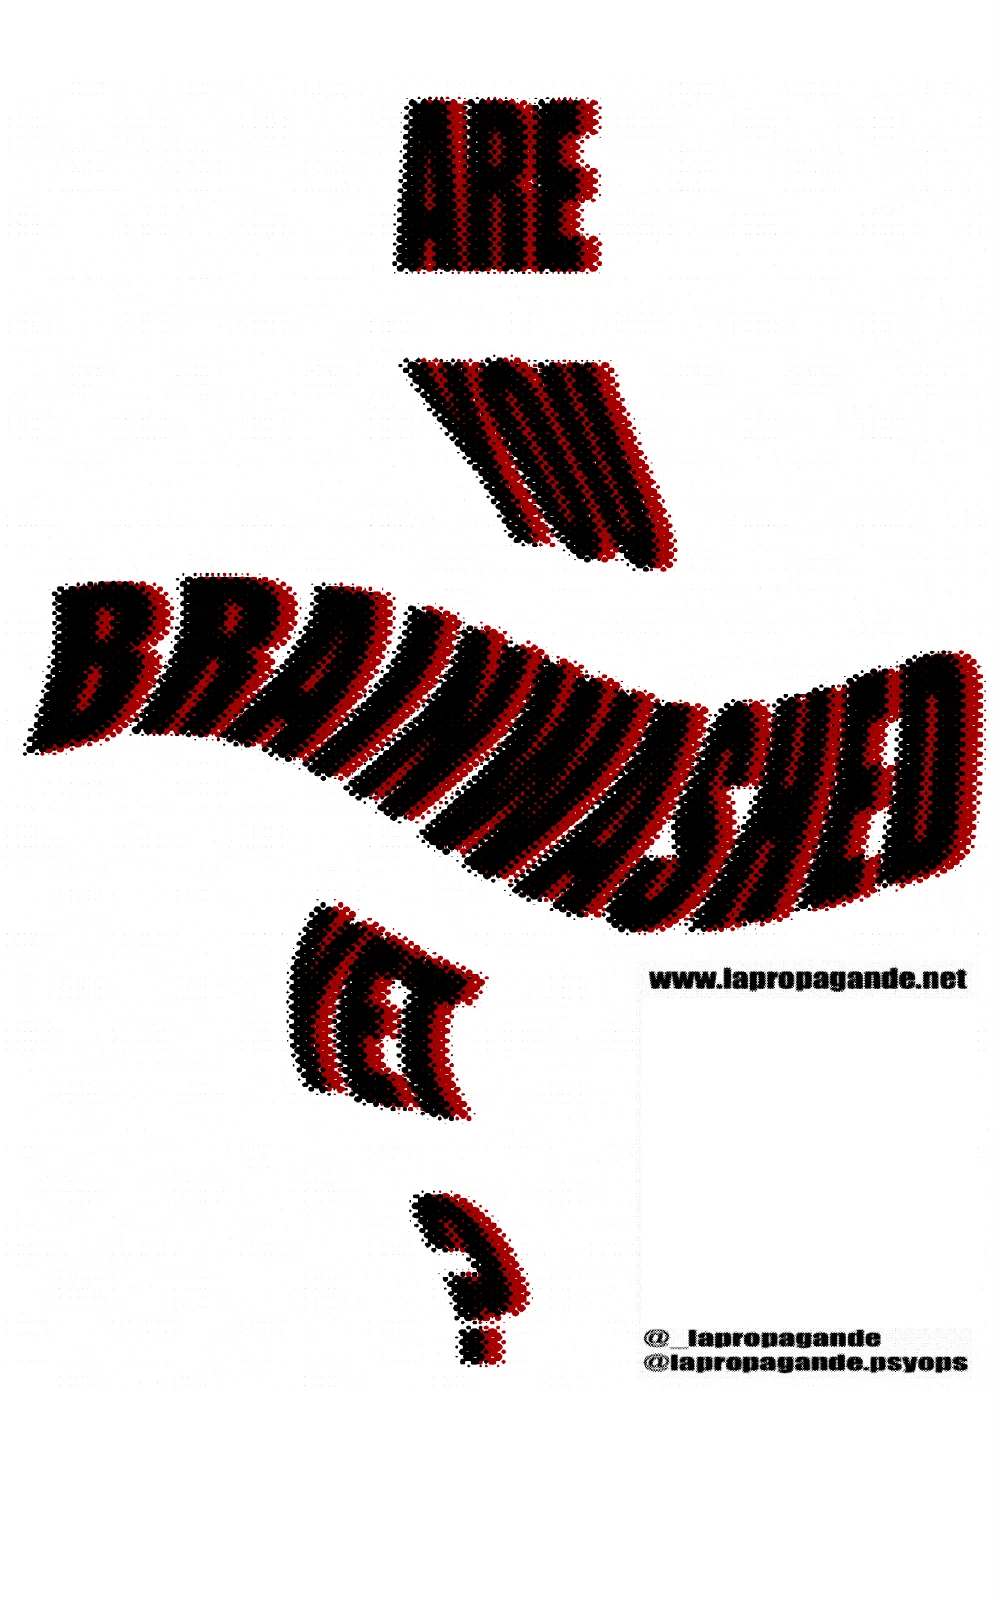
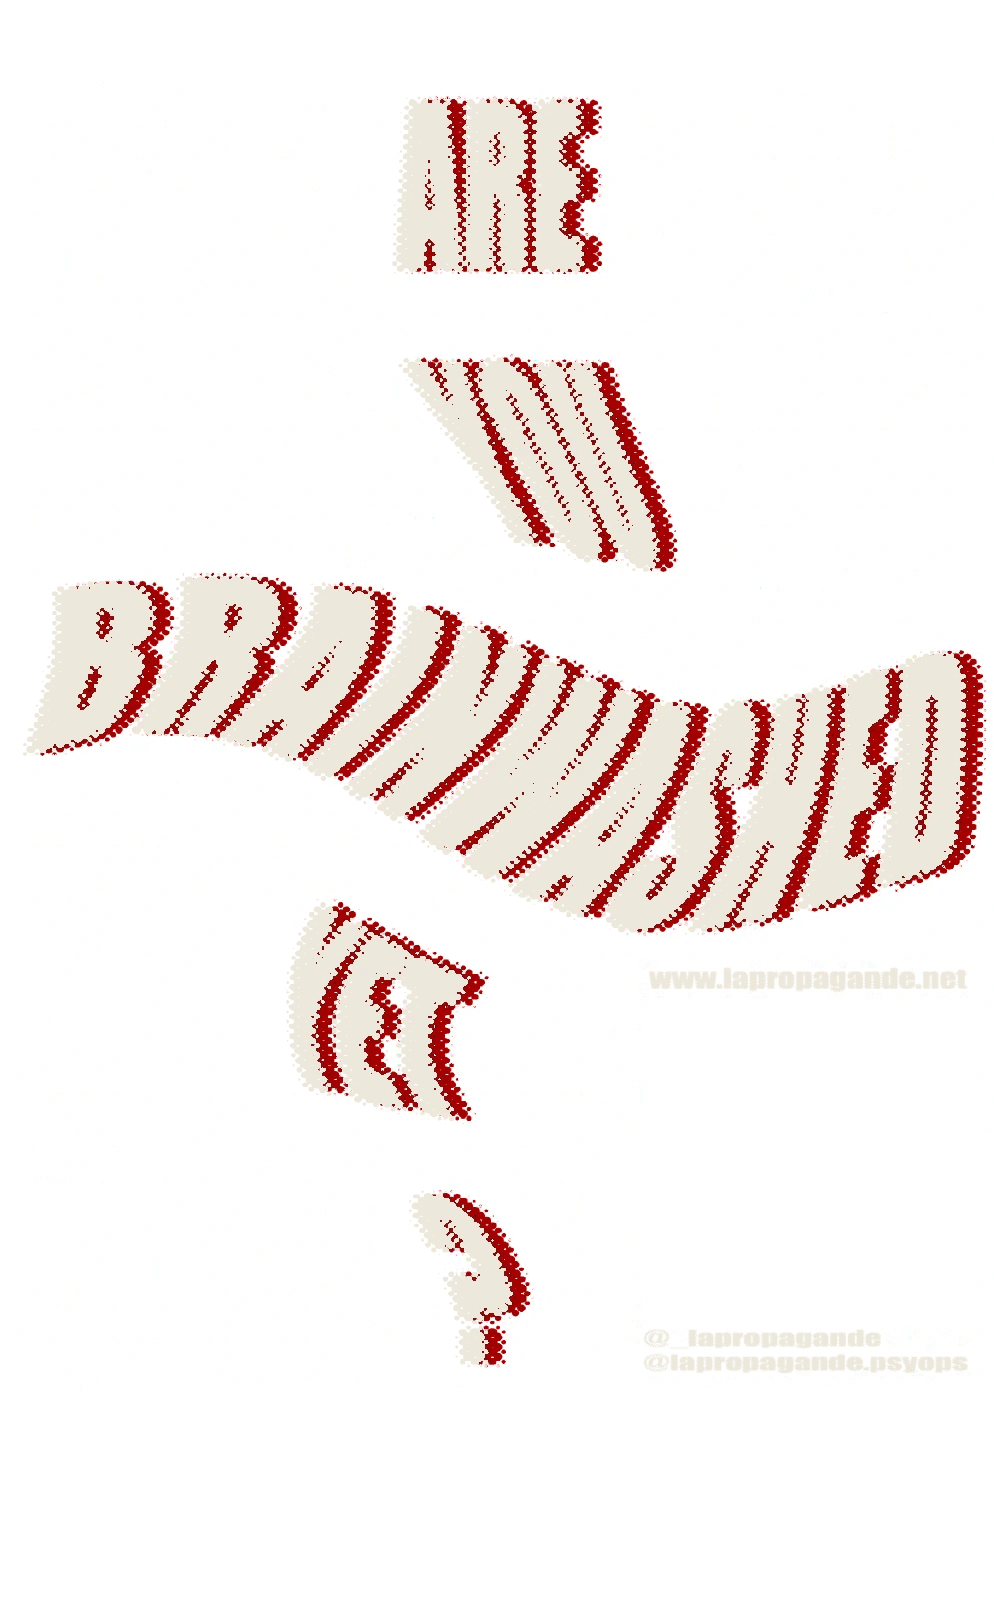
feat: client revision round 2 — wordmark, footer copy, map links, VHS mobile framing; remove lab + unused assets

diff --git a/app/locations/page.tsx b/app/locations/page.tsx
@@ -1,12 +1,21 @@
 import type { Metadata } from 'next';
-import Image from 'next/image';
 import { getLocationEntries } from '@/lib/queries/content';
+import { locationMapUrl } from '@/lib/site';
 import { MetaList, PageHeader, Panel, PanelTitleBar, StatusChip } from '@/components/system/Primitives';
 
 export const metadata: Metadata = {
   title: 'Locations',
   description: 'La Propagande showrooms in Badaro and Ashrafieh, Fearlove Vintage Shop in Beirut, and online platforms across Lebanon and Oman.',
 };
+
+function MapLink({ entry }: { entry: { title: string; address: string } }) {
+  const href = locationMapUrl(entry) ?? `https://www.google.com/maps/search/?api=1&query=${encodeURIComponent(entry.address.replace(/\n/g, ', '))}`;
+  return (
+    <a href={href} target="_blank" rel="noopener noreferrer" className="lp-btn lp-btn--sm">
+      OPEN IN MAPS <span className="lp-btn__arrow">&gt;</span>
+    </a>
+  );
+}
 
 export default async function LocationsPage() {
   const entries = await getLocationEntries();
@@ -25,22 +34,10 @@ export default async function LocationsPage() {
           {showrooms.map((entry, index) => (
             <Panel key={entry.id} ticks reveal={index} className="overflow-hidden">
               <PanelTitleBar title={entry.title} meta="BY APPOINTMENT" />
-              <div className="grid gap-4 p-4 sm:grid-cols-[120px_1fr]">
-                <div className="lp-media relative aspect-square">
-                  <Image src={index % 2 === 0 ? '/images/brand/photo-showroom-rack.webp' : '/images/brand/photo-popup-rack.webp'} alt="" fill sizes="120px" className="object-cover" />
-                </div>
-                <div className="space-y-3">
-                  <p className="lp-body m-0 whitespace-pre-line text-[var(--lp-color-text-strong)]">{entry.address}</p>
-                  {entry.note ? <StatusChip label={entry.note} tone="accent" /> : null}
-                  <a
-                    href={`https://www.google.com/maps/search/?api=1&query=${encodeURIComponent(entry.address.replace(/\n/g, ', '))}`}
-                    target="_blank"
-                    rel="noopener noreferrer"
-                    className="lp-btn lp-btn--sm"
-                  >
-                    OPEN IN MAPS <span className="lp-btn__arrow">&gt;</span>
-                  </a>
-                </div>
+              <div className="space-y-3 p-4">
+                <p className="lp-body m-0 whitespace-pre-line text-[var(--lp-color-text-strong)]">{entry.address}</p>
+                {entry.note ? <StatusChip label={entry.note} tone="accent" /> : null}
+                <MapLink entry={entry} />
               </div>
             </Panel>
           ))}
@@ -62,6 +59,7 @@ export default async function LocationsPage() {
                     ...(entry.note ? [{ label: 'Note', value: entry.note }] : []),
                   ]}
                 />
+                <MapLink entry={entry} />
               </div>
             </Panel>
           ))}

diff --git a/app/contact/page.tsx b/app/contact/page.tsx
@@ -2,19 +2,12 @@ import type { Metadata } from 'next';
 import Image from 'next/image';
 import Link from 'next/link';
 import SocialLinks from '@/components/contact/SocialLinks';
-import { PageHeader, Panel, PanelTitleBar, StatusChip } from '@/components/system/Primitives';
+import { PageHeader, Panel, PanelTitleBar } from '@/components/system/Primitives';
 
 export const metadata: Metadata = {
   title: 'Contact us',
   description: 'Reach La Propagande on WhatsApp, Instagram or TikTok for drops, custom orders, events and showroom access in Paris and Beirut.',
 };
-
-const CHANNELS = [
-  { label: 'Drops & orders', body: 'Sizing, restocks, shipping between Paris and Beirut.' },
-  { label: 'Custom jackets', body: 'Start a build or follow up on an open request.' },
-  { label: 'Events', body: 'Pop-ups, raves, collaborations, press.' },
-  { label: 'Showrooms', body: 'Appointments in Badaro and Ashrafieh.' },
-];
 
 export default function ContactPage() {
   return (
@@ -30,27 +23,12 @@ export default function ContactPage() {
               WhatsApp is the fastest line. Instagram and TikTok are open for everything else. We reply directly — no ticket system, no bots.
             </p>
             <SocialLinks />
-            <ul className="m-0 grid list-none gap-3 p-0 sm:grid-cols-2">
-              {CHANNELS.map((channel) => (
-                <li key={channel.label} className="border-t border-[var(--lp-color-border-subtle)] pt-3">
-                  <p className="lp-label m-0 text-[var(--lp-color-primary-400)]">{channel.label}</p>
-                  <p className="lp-body lp-body-sm m-0 mt-1 text-[var(--lp-color-text-muted)]">{channel.body}</p>
-                </li>
-              ))}
-            </ul>
           </div>
         </Panel>
 
         <Link href="/locations" className="group block lp-focus-ring">
           <Panel interactive reveal={1} className="h-full overflow-hidden">
             <PanelTitleBar title="ACCESS POINTS" meta="SHOWROOMS / SELLING POINTS" />
-            <div className="lp-media lp-media--zoom relative aspect-[16/10] border-0 border-b border-[var(--lp-color-border-subtle)]">
-              <Image src="/images/brand/photo-showroom-rack.webp" alt="La Propagande showroom rack" fill sizes="(max-width: 1024px) 100vw, 45vw" className="object-cover" />
-              <div className="absolute left-3 top-3 flex gap-2">
-                <StatusChip label="BADARO" dot tone="success" />
-                <StatusChip label="ASHRAFIEH" dot tone="success" />
-              </div>
-            </div>
             <div className="flex items-end justify-between gap-4 p-4">
               <div>
                 <p className="lp-title lp-title-lg m-0 text-[var(--lp-color-text-strong)] transition-colors group-hover:text-[var(--lp-color-primary-300)]">Physical locations</p>

diff --git a/app/about/page.tsx b/app/about/page.tsx
@@ -8,26 +8,12 @@ export const metadata: Metadata = {
   description: 'La Propagande — born from revolt and war, based between Paris and Beirut. Background, vision, mission and purpose.',
 };
 
-const ART = ['/images/brand/slogan-old-world.webp', '/images/brand/slogan-new-world.webp', '/images/brand/slogan-not-televised.webp', '/images/brand/slogan-lied-to.webp'];
-
 export default async function AboutPage() {
-  const { intro, heading, sections } = splitAboutContent(await getAboutSections());
+  const { sections } = splitAboutContent(await getAboutSections());
 
   return (
     <div className="lp-shell lp-page-pad space-y-4">
       <PageHeader module="ABOUT.sys" title="Background" strip="PUBLIC BRIEF · PARIS ↔ BEIRUT · BORN FROM REVOLT AND WAR" />
-
-      <Panel ticks reveal={0} className="overflow-hidden">
-        <div className="grid md:grid-cols-[minmax(0,1fr)_minmax(0,1fr)]">
-          <div className="lp-media relative aspect-[4/3] border-0 border-b border-[var(--lp-color-border-subtle)] md:aspect-auto md:border-b-0 md:border-r">
-            <Image src="/images/brand/photo-street-sign.webp" alt="La Propagande sigil on a street sign in Beirut" fill sizes="(max-width: 768px) 100vw, 50vw" className="object-cover" priority />
-          </div>
-          <div className="flex flex-col justify-center gap-4 p-4 md:p-8">
-            <p className="lp-display lp-display-lg m-0 text-[var(--lp-color-text-strong)]">{heading ?? 'The old world is dying and the new struggles to be born.'}</p>
-            <p className="lp-body m-0 text-[var(--lp-color-text-muted)]">{intro ?? 'A label, an archive and a network of nodes. Clothes as leaflets; events as broadcasts; the shop as a terminal into a hidden cultural record.'}</p>
-          </div>
-        </div>
-      </Panel>
 
       <Panel reveal={1} className="overflow-hidden">
         <Image
@@ -48,14 +34,6 @@ export default async function AboutPage() {
               <p className="lp-body m-0 whitespace-pre-line">{section.body}</p>
             </div>
           </Panel>
-        ))}
-      </div>
-
-      <div className="grid grid-cols-2 gap-2 md:grid-cols-4">
-        {ART.map((src, index) => (
-          <div key={src} className="lp-media lp-media--zoom lp-reveal relative aspect-[1200/848]" style={{ ['--i' as string]: index + 4 }}>
-            <Image src={src} alt="" fill sizes="(max-width: 768px) 50vw, 25vw" className="object-cover" />
-          </div>
         ))}
       </div>
     </div>

diff --git a/components/home/ManifestoBroadcast.tsx b/components/home/ManifestoBroadcast.tsx
@@ -6,7 +6,7 @@ import { useEffect, useRef } from 'react';
 // signal dies, then the manifesto plays over the brand's own photos as red-bar captions.
 // Canvas-drawn; the full text is mirrored in an sr-only list.
 
-const SPEED = 0.6; // global pacing multiplier — lower is faster
+const SPEED = 0.8; // global pacing multiplier — lower is faster
 
 type Shot = {
   type: 'arc' | 'card' | 'photo' | 'flash' | 'static' | 'end';
@@ -122,6 +122,12 @@ export default function ManifestoBroadcast() {
       const r = Math.max(W / img.width, H / img.height) * zoom, w = img.width * r, h = img.height * r;
       cx.drawImage(img, (W - w) * ox, (H - h) * oy, w, h);
     };
+    // portrait screens: show landscape cards whole instead of cropping them to a slice
+    const fit = (img: HTMLImageElement, zoom = 1) => {
+      if (W >= H) return cover(img, zoom);
+      const r = Math.min(W / img.width, H / img.height) * zoom, w = img.width * r, h = img.height * r;
+      cx.drawImage(img, (W - w) / 2, (H - h) / 2, w, h);
+    };
     const noise = (a: number, mode: GlobalCompositeOperation = 'overlay') => {
       cx.save();
       cx.globalAlpha = a; cx.globalCompositeOperation = mode;
@@ -189,9 +195,9 @@ export default function ManifestoBroadcast() {
       } else if (type === 'flash' && ready) {
         cx.filter = 'contrast(1.25) saturate(1.2) brightness(.7)'; cover(img!, z * (1.06 + p * 0.06), ox, oy); cx.filter = 'none'; noise(0.18);
       } else if (type === 'card' && ready) {
-        cover(img!, 1 + 0.035 * Math.max(0, 1 - el / 160)); noise(0.12);
+        fit(img!, 1 + 0.035 * Math.max(0, 1 - el / 160)); noise(0.12);
       } else if (type === 'end' && ready) {
-        cover(img!, 1); noise(0.12);
+        fit(img!, 1); noise(0.12);
         cx.font = `${Math.min(W * 0.016, 20)}px "Retro Computer"`; cx.fillStyle = '#120302'; cx.textAlign = 'center';
         cx.globalAlpha = Math.min(1, Math.max(0, (el - 500 * SPEED) / 400));
         cx.fillText('WELCOME TO THE REVOLUTION', W / 2, H * 0.8);

diff --git a/components/layout/Footer.tsx b/components/layout/Footer.tsx
@@ -39,12 +39,14 @@ export default function Footer() {
         <div className="space-y-3">
           <Link href="/" className="inline-flex min-h-[44px] items-center gap-3 lp-focus-ring">
             <Image src="/images/lp-logo-red.png" alt="" width={40} height={40} className="h-[36px] w-[36px] object-contain" />
-            <span className="lp-title lp-title-md text-[var(--lp-color-text-strong)]">La Propagande</span>
+            <Image src="/images/lp-text-logo-cropped.png" alt="La Propagande" width={2732} height={609} className="lp-wordmark h-auto w-[150px] invert" />
           </Link>
-          <p className="lp-body lp-body-sm m-0 max-w-[40ch] text-[var(--lp-color-text-muted)]">
-            Born from revolt and war. A cultural archive that also contains a store, events and a network of nodes between Paris and Beirut.
-          </p>
-          <p className="lp-log m-0">NODE LP_PAR-BEY_01 · SIGNAL STABLE · © {year}</p>
+          <p className="lp-log m-0">© {year}</p>
+          <div className="lp-body lp-body-sm max-w-[40ch] space-y-3 text-[var(--lp-color-text-muted)]">
+            <p className="m-0">Underground clothing brand for the rebel minds.</p>
+            <p className="m-0">Streetwear • Vintage Militaria &amp; Workwear • Custom jackets</p>
+            <p className="m-0">From Beirut to Paris, for the World.</p>
+          </div>
         </div>
 
         <nav aria-label="Footer" className="space-y-2">

diff --git a/lib/site.ts b/lib/site.ts
@@ -115,6 +115,17 @@ export const LOCATION_FALLBACK_ENTRIES: LocationEntry[] = [
   },
 ];
 
+const plusCodeMap = (code: string) => `https://www.google.com/maps/search/?api=1&query=${encodeURIComponent(`${code} Beirut`)}`;
+
+/** Client-supplied map pins, matched on title so Shopify-sourced entries pick them up too. */
+export function locationMapUrl(entry: Pick<LocationEntry, 'title'>): string | undefined {
+  const title = entry.title.toLowerCase();
+  if (title.includes('badaro')) return plusCodeMap('VGG8+73M');
+  if (title.includes('ashrafieh')) return plusCodeMap('VGJH+3W8'); // Factory 4376
+  if (title.includes('fearlove')) return 'https://maps.app.goo.gl/NLRwnUVdXUt5rohT6';
+  return undefined;
+}
+
 export function splitDescriptionAndFileNotes(descriptionHtml: string, fallbackNotes?: string): { descriptionHtml: string; fileNotes?: string } {
   const notes: string[] = [];
   const cleaned = descriptionHtml.replace(/<p>\s*FILE NOTES:\s*([\s\S]*?)<\/p>/gi, (_match, note) => {

diff --git a/components/layout/Navbar.tsx b/components/layout/Navbar.tsx
@@ -75,7 +75,7 @@ export default function Navbar() {
           <Link href="/" className="group lp-focus-ring relative flex min-h-[44px] shrink-0 items-center gap-[10px]" aria-label="La Propagande — return to root">
             <Image src="/images/lp-logo-red.png" alt="" width={34} height={34} priority className="h-[30px] w-[30px] object-contain transition-transform duration-300 ease-lp group-hover:rotate-[22deg]" />
             <span className="flex flex-col leading-none">
-              <span className="lp-label whitespace-nowrap text-[var(--lp-color-text-strong)]">La Propagande</span>
+              <Image src="/images/lp-text-logo-cropped.png" alt="La Propagande" width={2732} height={609} className="lp-wordmark h-auto w-[112px] invert" />
               <span className="lp-log mt-[3px] hidden items-center sm:flex gap-2 text-[var(--lp-color-text-dim)]">
                 <span>PAR ↔ BEY</span>
                 <span aria-hidden className="lp-signal-meter">

diff --git a/app/globals.css b/app/globals.css
@@ -1251,7 +1251,7 @@ video {
   }
 
   @media (max-width: 768px) {
-    .lp-broadcast__tv { height: 78vh; min-height: 0; }
+    .lp-broadcast__tv { height: min(78vh, 120vw); min-height: 0; }
   }
 
   /* ---------- ticker ---------- */
